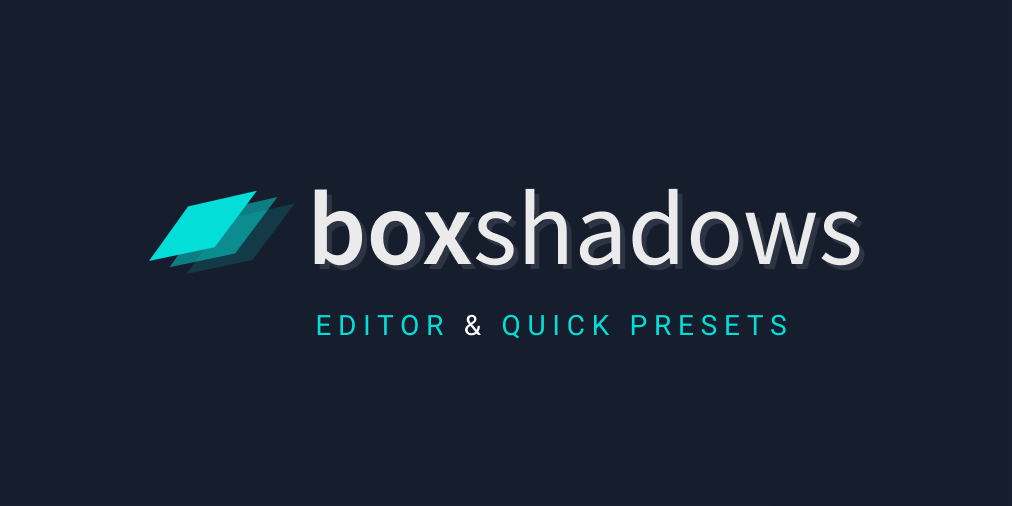
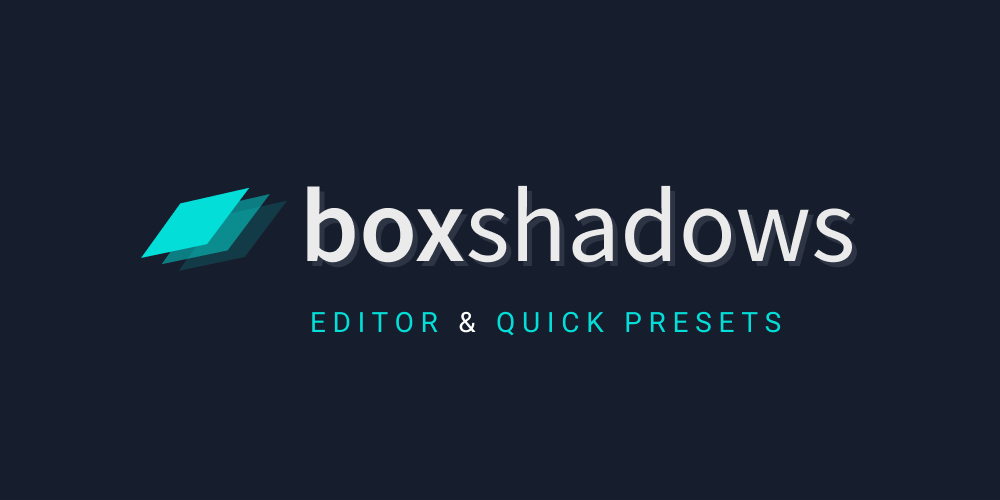
Try with exact 2:1 dimensions for twitter card

diff --git a/src/index.html b/src/index.html
@@ -1,5 +1,5 @@
 <!DOCTYPE html>
-<html lang="en">
+<html lang="en" prefix="og: http://ogp.me/ns#">
   <head>
     <meta charset="UTF-8" />
     <meta name="author" content="Abinav Seelan, Aditi Mohanty | CampVanilla" />
@@ -16,20 +16,20 @@
       name="description"
       content="Create & tweak css box-shadows or roll with some neat presets! ⚡"
     />
+
+    <meta name="twitter:card" content="summary_large_image" />
+    <meta name="twitter:creator" content="@abinavseelan" />
+    <meta name="twitter:creator" content="@rheaditi">
+    <meta property="og:description" content="Create & tweak css box-shadows or roll with some neat presets! ⚡" />
+    <meta property="og:image:alt" content="boxShadows | CSS box-shadow editor & quick presets" />
+    <meta property="og:image:height" content="500" />
+    <meta property="og:image:width" content="1000" />
+    <meta property="og:image:type" content="image/png" />
+    <meta property="og:image" content="<%= require('./assets/twitter-card.min.png').default %>" />
+    <meta property="og:site_name" content="boxshadows.com" />
     <meta property="og:title" content="boxShadows | CSS box-shadow editor & quick presets" />
     <meta property="og:type" content="website" />
     <meta property="og:url" content="https://boxshadows.com/" />
-    <meta property="og:site_name" content="boxshadows.com" />
-    <meta property="og:image:alt" content="boxShadows | CSS box-shadow editor & quick presets" />
-    <meta name="twitter:image" property="og:image" content="<%= require('./assets/twitter-card.min.png').default %>" />
-    <meta property="og:image:type" content="image/png" />
-    <meta property="og:image:width" content="1012" />
-    <meta property="og:image:height" content="506" />
-    <meta name="twitter:card" content="summary_large_image">
-    <meta name="twitter:title" content="boxShadows | CSS box-shadow editor & quick presets">
-    <meta name="twitter:description" content="Create & tweak css box-shadows or roll with some neat presets! ⚡">
-    <meta name="twitter:creator" content="@abinavseelan">
-    <meta name="twitter:creator" content="@rheaditi">
 
     <title>boxShadows | CSS box-shadow editor & quick presets</title>
     <link href="https://fonts.googleapis.com/css2?family=Roboto:wght@300;400;500&display=swap" rel="stylesheet" />
